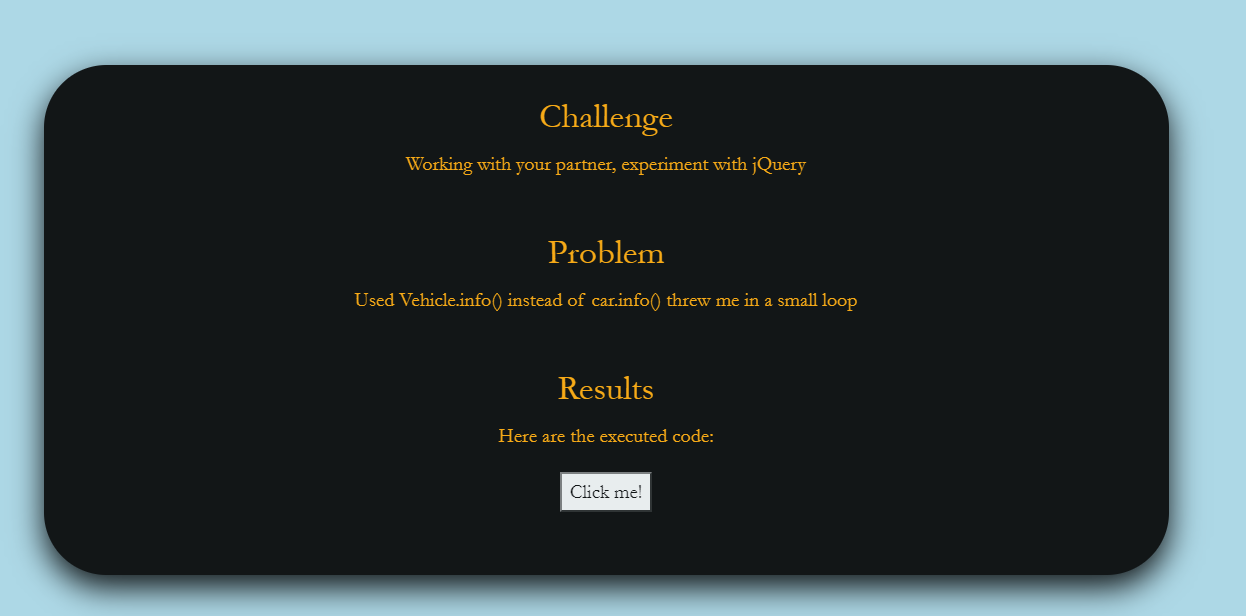
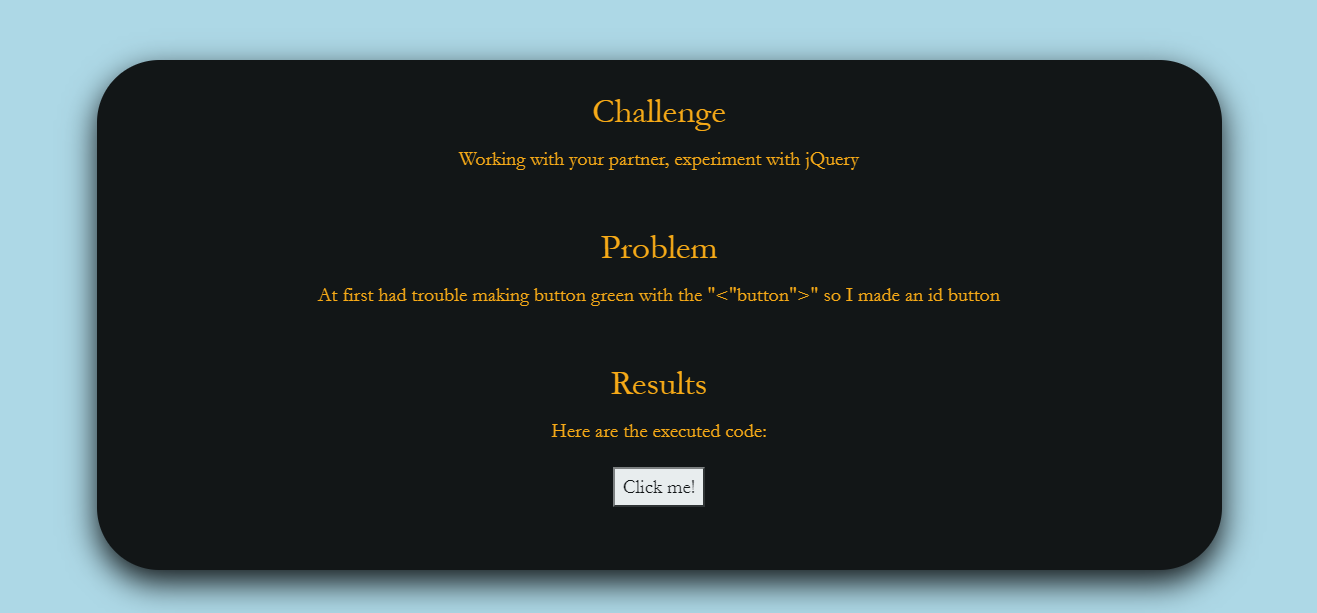
lab17

diff --git a/lab17/index.html b/lab17/index.html
@@ -12,17 +12,28 @@
 
 	<div class="box">
 
-		<h3>Challenge</h3>
-			<p>Working with your partner, experiment with advanced jQuery</p><br>
 
-		<h3>Problem</h3>
-			<p>	Used Vehicle.info() instead of car.info() threw me in a small loop</p><br>
+		<div id="Challenge">
+			<h3>Challenge</h3>
+			<p>Working with your partner, experiment with advanced jQuery</p>
+			<button id="Chabutton">Change!</button><br><br>
+		</div>
 
-		<h3>Results</h3>
+		<div id="Problem">
+			<h3>Problem</h3>
+			<p>	Messed up on using id's at first, so used to using classes forgot the
+			basic syntax of id</p>
+			<button id="Probutton">Change!</button><br><br>
+		</div>
+
+		<div id="Results">
+			<h3>Results</h3>
 			<p>Here are the executed code:</p>
+			<button id="Resbutton">Change!</button>
+		</div>
 
 		<div id="output">
-			<button id="button">Click me!</button>
+
 		</div>
 		<br>
 

diff --git a/lab17/js/lab.js b/lab17/js/lab.js
@@ -4,3 +4,31 @@
  *
  * (c) Copyright by AJ S.
  **/
+var buttonA = $("#Chabutton");
+var buttonB = $("#Probutton");
+var buttonC = $("#Resbutton");
+
+var chal = $("#Challenge");
+var prob = $("#Problem");
+var res = $("#Results");
+
+buttonA.click(function(){
+
+	chal.addClass("green-button");
+  alert("Hello! I am an alert box!!");
+
+})
+
+buttonB.click(function(){
+
+	prob.addClass("green-button");
+  alert("Hello! I am an alert box!!");
+
+})
+
+buttonC.click(function(){
+
+	res.addClass("green-button");
+  alert("Hello! I am an alert box!!");
+
+})

diff --git a/lab17/css/lab.css b/lab17/css/lab.css
@@ -7,3 +7,6 @@
   color:orange;
   border-radius: 50px;
 }
+.green-button{
+  color: #82c04b;
+}
